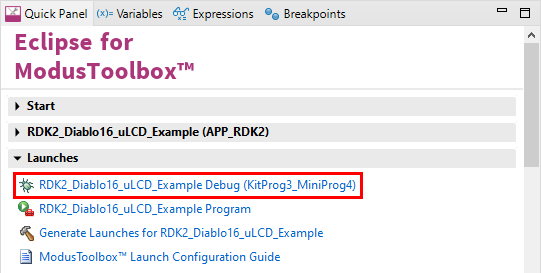
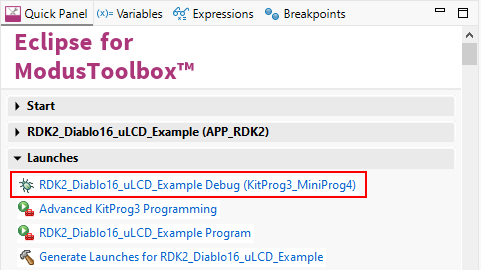
mtb 3.7 updates.

diff --git a/README.md b/README.md
@@ -2,11 +2,11 @@
 
 Rutronik Development Kit Programmable System-on-Chip CY8C6245AZI-S3D72 "RDK2_GEN4_ULCD_43" Demo Application. 
 
-Firmware example demonstrates the usage of the 4D Systems DIABLO16 graphics controller based 4.3" display with integrated capacitive touch panel - gen4-uLCD-43DCT-CLB. The display is controlled using the UART interface. The 115200 bit/s baud rate is enough for the typical application to be responsive to the touch on the display without noticeable lag. Nevertheless, the UART baud rate can be increased to 600000bit/s. For quick integration with RDK2 the Arduino adapter 4D-ARDUINO-ADAPTOR-SHIELD-II is recommended. Although the example is referring to the SGP40 sensors VOC data by default, it is also capable of automatically switching to the onboard potentiometer ADC if the sensor will not be attached to I2C.
+Firmware example demonstrates the usage of the 4D Systems DIABLO16 graphics controller-based 4.3" display with integrated capacitive touch panel - gen4-uLCD-43DCT-CLB. The display is controlled using the UART interface. The 115200 bit/s baud rate is sufficient for the typical application to respond to touch on the display without noticeable lag. Nevertheless, the UART baud rate can be increased to 600000bit/s. For quick integration with RDK2, the Arduino adapter 4D-ARDUINO-ADAPTOR-SHIELD-II is recommended. Although the example defaults to the SGP40 sensors' VOC data, it can also automatically switch to the onboard potentiometer ADC if the sensor is not attached to I2C.
 
 <img src="images/rdk2_rev1.jpg" style="zoom:80%;" />
 
-The ViSi-Genie code library is provided to be used in ModusToolboxTM IDE with RDK2. The user API configuration functions and event handler has been implemented to enable the library.
+The ViSi-Genie code library is provided for use in the ModusToolboxTM IDE with RDK2. The user API configuration functions and event handler have been implemented to enable the library.
 
 ```c
 /* UserApiConfig */
@@ -37,11 +37,11 @@ genieDoEvents(true);
 
 ## Requirements
 
-- [ModusToolbox® software](https://www.infineon.com/cms/en/design-support/tools/sdk/modustoolbox-software/) **v2025.4.0** [built with **v3.0**]
+- [ModusToolbox® software](https://www.infineon.com/cms/en/design-support/tools/sdk/modustoolbox-software/) **v3.7** [built with **v3.0**]
 
 ## Supported toolchains (make variable 'TOOLCHAIN')
 
-- GNU Arm&reg; Embedded Compiler v11.3.1 (`GCC_ARM`) - Default value of `TOOLCHAIN`
+- GNU Arm&reg; Embedded Compiler v14.2.1 (`GCC_ARM`) - Default value of `TOOLCHAIN`
 
 ## Using the code example
 
@@ -156,7 +156,7 @@ The example was ported from the **"4D Systems Genie Port"** provided by Robby Ch
 
 [https://github.com/RobbyChapman/4d_systems_genie_port](https://github.com/RobbyChapman/4d_systems_genie_port)
 
-All the graphics objects are designed and programmed to the display memory using the „Workshop4 IDE“. The provided example demonstrates the basics – a gauge for the VOC Index, the chart so-called „Scope“ which is updated every 10 seconds to be able to see how the values are changing in time. Also, a few buttons that control the onboard and on-screen LEDs are implemented to demonstrate how the Visi-Genie events work.
+All the graphics objects are designed and programmed to the display memory using the „Workshop4 IDE“. The provided example demonstrates the basics – a gauge for the VOC Index, the so-called "Scope " chart, which is updated every 10 seconds to show how the values change over time. Also, a few buttons that control the onboard and on-screen LEDs are implemented to demonstrate how the Visi-Genie events work.
 
 <img src="images/demo_setup.jpg" style="zoom:25%;" />
 
